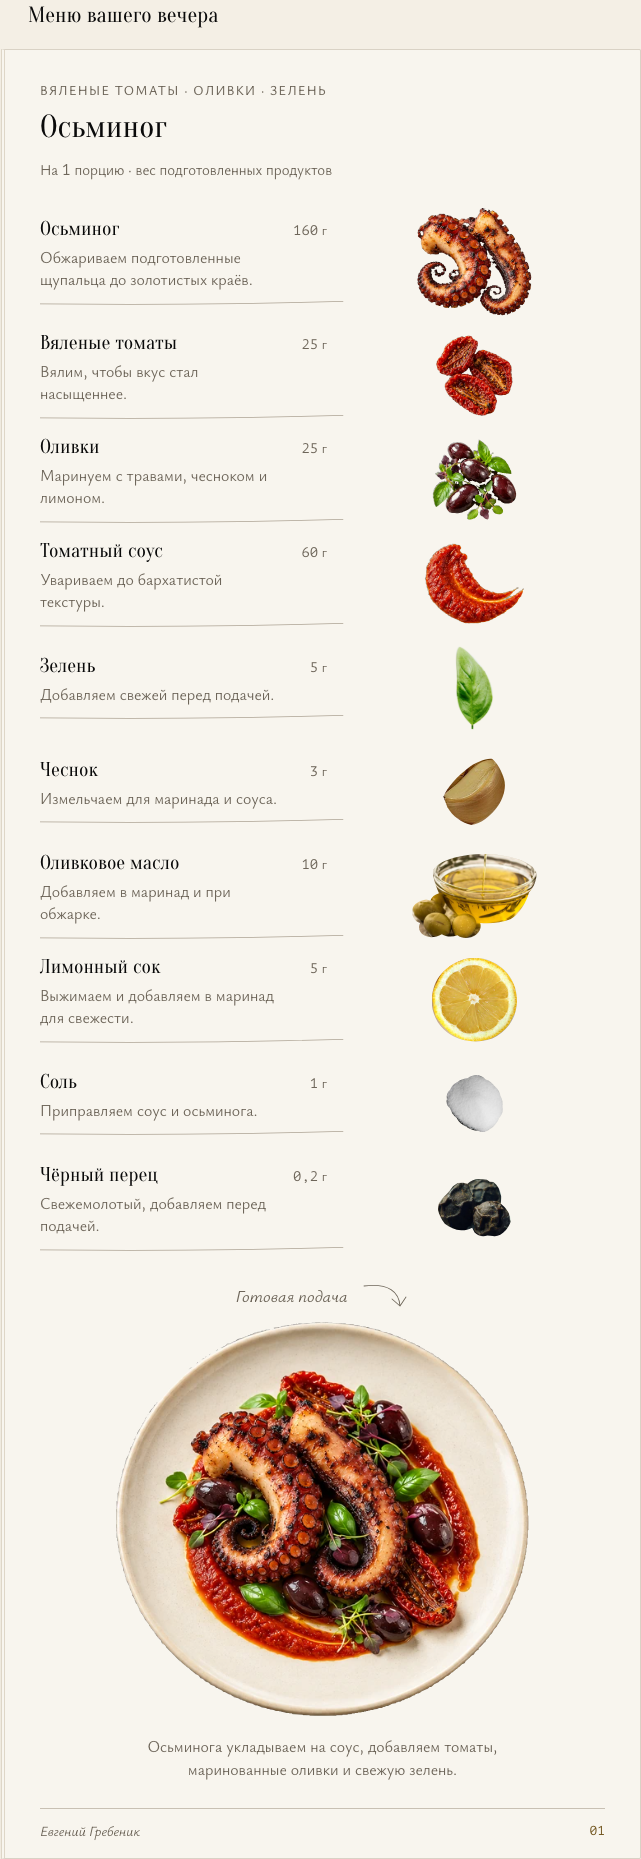
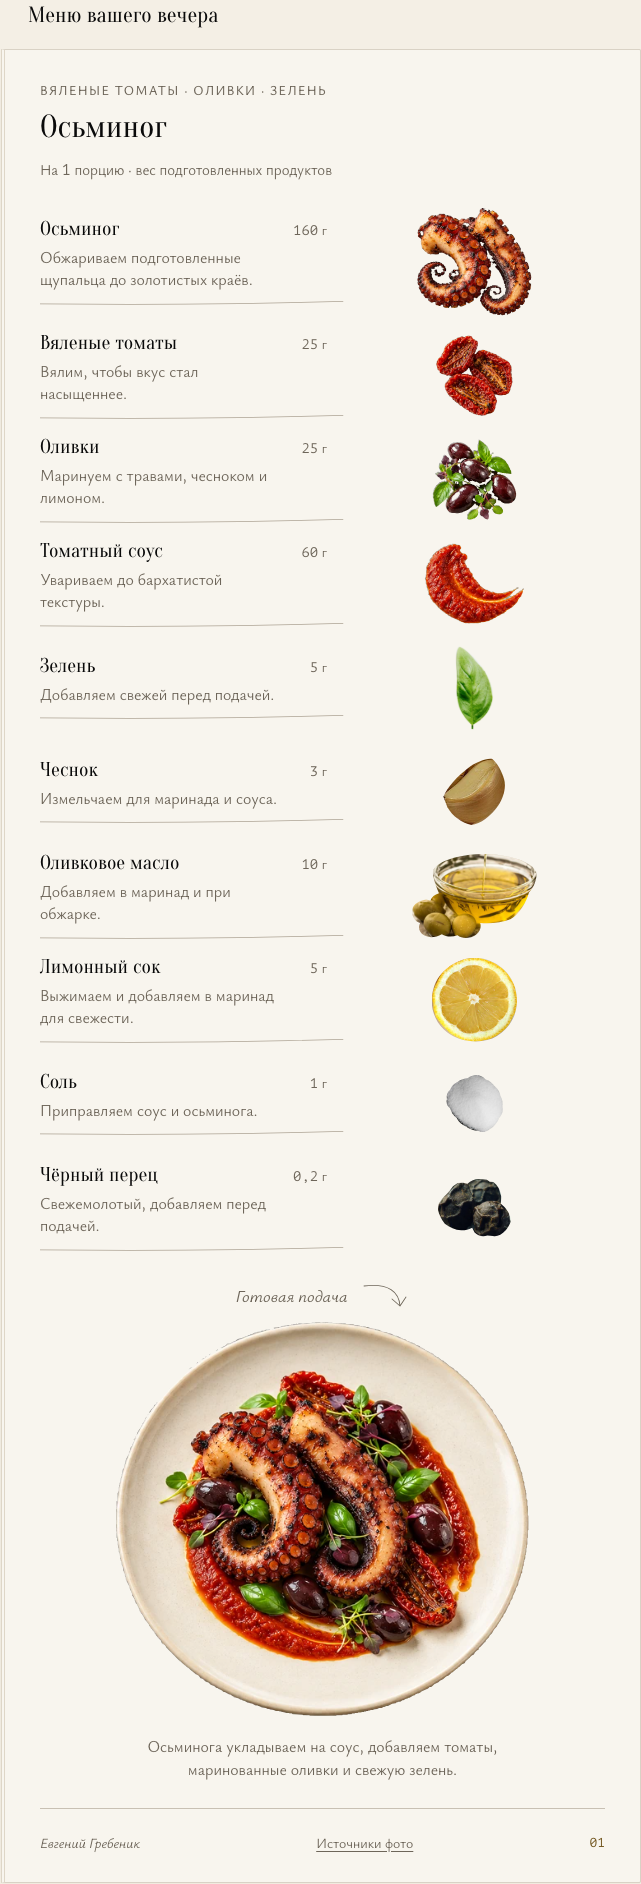
Link ingredient photo sources from the menu leaf

diff --git a/app/menu-book.css b/app/menu-book.css
@@ -42,7 +42,8 @@
 .mb-plate { position: relative; width: 100%; display: flex; align-items: center; justify-content: center; margin: 8px 0 7px; }
 .mb-plate .mb-art { width: 100%; max-width: 420px; height: auto; }
 .mb-serving figcaption { font: 400 1rem/1.45 var(--font-sans); color: var(--muted); max-width: 375px; text-align: center; margin: 8px auto 5px; }
-.mb-page-footer { display: flex; justify-content: space-between; align-items: center; gap: 12px; margin-top: 22px; padding-top: 12px; border-top: 1px solid var(--rule); color: var(--muted); font: italic 400 .875rem/1.4 var(--font-sans); }
+.mb-page-footer { display: flex; flex-wrap: wrap; justify-content: space-between; align-items: center; gap: 6px 12px; margin-top: 22px; padding-top: 12px; border-top: 1px solid var(--rule); color: var(--muted); font: italic 400 .875rem/1.4 var(--font-sans); }
+.mb-page-footer a { display: inline-flex; align-items: center; min-height: 44px; font-style: normal; color: var(--muted); text-decoration: underline; text-underline-offset: 3px; }
 .mb-page-number { font: 400 .8125rem/1.4 var(--font-mono); color: var(--gold-text); font-variant-numeric: tabular-nums lining-nums; }
 .mb-error { font: 400 1rem/1.4 var(--font-sans); padding: 15px 27px; color: var(--muted); }
 .mb-error button { text-decoration: underline; margin-left: 5px; }

diff --git a/app/menu-book.tsx b/app/menu-book.tsx
@@ -72,7 +72,7 @@ export default function MenuBook() {
           <div className="mb-plate" role="img" aria-label="Осьминог: готовая подача на тарелке"><FoodArt partIndex={4} /></div>
           <figcaption>Осьминога укладываем на соус, добавляем томаты, маринованные оливки и свежую зелень.</figcaption>
         </figure>
-        <footer className="mb-page-footer"><span>Евгений Гребеник</span><span className="mb-page-number">01</span></footer>
+        <footer className="mb-page-footer"><span>Евгений Гребеник</span><a href="/media/menu/exploded/credits.html">Источники фото</a><span className="mb-page-number">01</span></footer>
       </article>
     </div>
     <p className="mb-error" role="alert" hidden>Не удалось загрузить изображение. Состав и приготовление доступны. <button data-menu-retry>Попробовать ещё раз</button></p>

diff --git a/docs/MENU_BOOK_COLOR_2026-09-13.md b/docs/MENU_BOOK_COLOR_2026-09-13.md
@@ -25,7 +25,7 @@
 2. Изменены `app/menu-book.tsx`, `app/menu-book.css`, `scripts/qa-menu-book.mjs`, `tests/rendered-html.test.mjs`, публичные `public/media/menu/exploded/{credits.html,CREDITS.md}`, `AGENTS.md`, карта референсов, система и план. Ранее в этой задаче изменено только положение листа в `app/globals.css` и удалён активный `app/menu-book-animation.ts`.
 3. Найденные шаблонные элементы: отсутствуют. Текстовый список из шести дополнений не удовлетворял последнему уточнению об изображениях.
 4. Переработка: все десять позиций продолжают прежние иллюстрированные строки с количеством и действием; новый набор карточек, рамок или иконок не добавлен.
-5. Референсы: выбранный пользователем лист меню, принятый цветной осьминог, текущая система шрифтов, прямые последние запросы. Фотографические источники: Kaboompics/Pexels5202104, Jon Sullivan/Commons (чеснок и перец), Pixabay/Pexels33783, André Karwath + Andrewc/Commons (лимон), Poyraz72/Commons (соль). Полные ссылки, изменения и лицензии доступны в публичных credits.
+5. Референсы: выбранный пользователем лист меню, принятый цветной осьминог, текущая система шрифтов, прямые последние запросы. Фотографические источники: Kaboompics/Pexels5202104, Jon Sullivan/Commons (чеснок и перец), Pixabay/Pexels33783, André Karwath + Andrewc/Commons (лимон), Poyraz72/Commons (соль). Полные ссылки, изменения и лицензии доступны в публичных credits через «Источники фото» в нижней строке листа; ссылка имеет цель44px и переносится при увеличенном тексте.
 6. Решения без отдельного визуального референса: точные граммовки и размер мелких приправ — редакционная адаптация реального состава в рамках прямого запроса. Новый стиль не выбран.
 7. UI-библиотеки не добавлены; использованы существующие React, HTML, CSS и SVG-геометрия отображения.
 
@@ -33,7 +33,7 @@
 
 8. Chromium:1440,1280,1024,768,430,390,375px — автоматическая геометрия и визуальный просмотр пройдены. На каждой ширине подтверждены10строк, по одному успешно загруженному изображению в каждой,10граммовок, действия и целая тарелка ниже полного состава. Переполнений и пересечений маршрута с листом/текстом нет. На телефоне названия и количества переносятся по доступной ширине; при200%текста каждая фотография располагается после собственного описания. Сохранены шрифты и минимальные19pxдля названий.
 
-Проверены постоянный цвет до/после скролла и при обеих настройках движения, отсутствие анимаций, цветной HTML без JavaScript, ошибка загрузки и клавиатурный повтор с видимым фокусом/целью44px. Пять HTTP-тестов, TypeScript, ESLint и production build пройдены. У ESLint только прежнее предупреждение о нативном `<img>` для локальных фотографических атласов, ошибок нет. Клиентский блок меню69,618байт,21,186байт gzip; прежних карандашных данных >500KB нет. Проверены63фото коллажа, видеостарт по видимости, пауза вне экрана и локальный HTTP noindex.
+Проверены постоянный цвет до/после скролла и при обеих настройках движения, отсутствие анимаций, цветной HTML без JavaScript, ошибка загрузки и клавиатурный повтор с видимым фокусом/целью44px. Пять HTTP-тестов, TypeScript, ESLint и production build пройдены. У ESLint только прежнее предупреждение о нативном `<img>` для локальных фотографических атласов, ошибок нет. Клиентский блок меню69,715байт,21,226байт gzip; прежних карандашных данных >500KB нет. Проверены63фото коллажа, видеостарт по видимости, пауза вне экрана и локальный HTTP noindex.
 
 ## Итоговый аудит и ограничения
 

diff --git a/docs/DESIGN_SYSTEM.md b/docs/DESIGN_SYSTEM.md
@@ -1,6 +1,6 @@
 ## Цветное меню с изображением каждого ингредиента — 2026-09-13
 
-Последние прямые запросы оставляют один постоянно цветной лист осьминога без карандаша, скролл-переходов, режимов и навигации. Сохраняются лист #f8f5ee, рамка, поля, максимальная ширина640px, действующие Oranienbaum/Ysabeau Office/PT Mono. Все десять ингредиентов имеют фотографическое изображение справа от названия, количества и действия по прежнему правилу основных компонентов; отдельный текстовый список убирается. Фото фрагментов кадрируются существующим принципом SVG clipPath, без рамок/карточек и без перерисовки. Граммовки — PT Mono с русской запятой, единица «г» — Ysabeau Office, явно указана1порция подготовленных продуктов. Текст16px, названия≥19px; изображения84px по высоте на desktop и79px на телефоне, первый осьминог крупнее как раньше. Для натурального масштаба зубчик чеснока68px, соль и перец58px; размеры статические. В узком контейнере при увеличенном тексте каждая фотография следует после своего описания. Полная тарелка ниже последнего ингредиента, доступна уже в HTML. [Аудит и план](MENU_BOOK_COLOR_2026-09-13.md). Ниже — предыдущая механика.
+Последние прямые запросы оставляют один постоянно цветной лист осьминога без карандаша, скролл-переходов, режимов и навигации. Сохраняются лист #f8f5ee, рамка, поля, максимальная ширина640px, действующие Oranienbaum/Ysabeau Office/PT Mono. Все десять ингредиентов имеют фотографическое изображение справа от названия, количества и действия по прежнему правилу основных компонентов; отдельный текстовый список убирается. Фото фрагментов кадрируются существующим принципом SVG clipPath, без рамок/карточек и без перерисовки. Граммовки — PT Mono с русской запятой, единица «г» — Ysabeau Office, явно указана1порция подготовленных продуктов. Текст16px, названия≥19px; изображения84px по высоте на desktop и79px на телефоне, первый осьминог крупнее как раньше. Для натурального масштаба зубчик чеснока68px, соль и перец58px; размеры статические. В узком контейнере при увеличенном тексте каждая фотография следует после своего описания. Полная тарелка ниже последнего ингредиента, доступна уже в HTML. Ссылка «Источники фото» в нижней строке листа наследует muted/подчёркивание и имеет цель44px; нижняя строка переносится на узкой ширине. [Аудит и план](MENU_BOOK_COLOR_2026-09-13.md). Ниже — предыдущая механика.
 
 ## Тонкие образы по скроллу — 2026-09-13
 

diff --git a/docs/DESIGN_REFERENCE_MAP.md b/docs/DESIGN_REFERENCE_MAP.md
@@ -6,7 +6,7 @@
 | Расширенный состав | Прямые «добавь больше ингредиентов» и «Соль, перец, граммовки добавь», существующий рецепт | Десять компонентов с действиями и количеством на 1 порцию | Новые фантазийные изображения и изменение подачи | Десять фото-компонентов, включая соль и перец; изображение каждой позиции по последующему прямому уточнению |
 | Единственный лист | Последующее «Оставь только осьминога», утверждённый лист и действующая система | Один рецепт, фото/приготовление, тарелка ниже | Утка, каре, перелистывание и пустой соседний лист | Один лист шириной до 640 px, на mobile по доступной ширине |
 
-Изображения каждого ингредиента — прямое «Картинки к ингредиентам нужны везде». Прежние четыре фото и тарелка осьминога сохраняются. Новые источники: Kaboompics/Pexels5202104 (базилик, существующий актив), Jon Sullivan/Wikimedia Commons (чеснок и перец), Pixabay/Pexels33783 (масло), André Karwath + Andrewc/Wikimedia Commons (лимон), Poyraz72/Wikimedia Commons (соль). Принцип — натуральные предметные фрагменты на листе, без чужой композиции, кухонного окружения и новых декоративных рамок. Полные ссылки и лицензии — в public/media/menu/exploded/credits.html.
+Изображения каждого ингредиента — прямое «Картинки к ингредиентам нужны везде». Прежние четыре фото и тарелка осьминога сохраняются. Новые источники: Kaboompics/Pexels5202104 (базилик, существующий актив), Jon Sullivan/Wikimedia Commons (чеснок и перец), Pixabay/Pexels33783 (масло), André Karwath + Andrewc/Wikimedia Commons (лимон), Poyraz72/Wikimedia Commons (соль). Принцип — натуральные предметные фрагменты на листе, без чужой композиции, кухонного окружения и новых декоративных рамок. Полные ссылки и лицензии — в public/media/menu/exploded/credits.html; из листа ведёт нейтральная ссылка «Источники фото», продолжение существующей страницы атрибуции.
 
 Точный выбор дополнительных ингредиентов — редакционное решение в рамках запроса, отдельный внешний референс не заявляется. [Аудит и план](MENU_BOOK_COLOR_2026-09-13.md). Более ранние записи рисования ниже — история.
 
